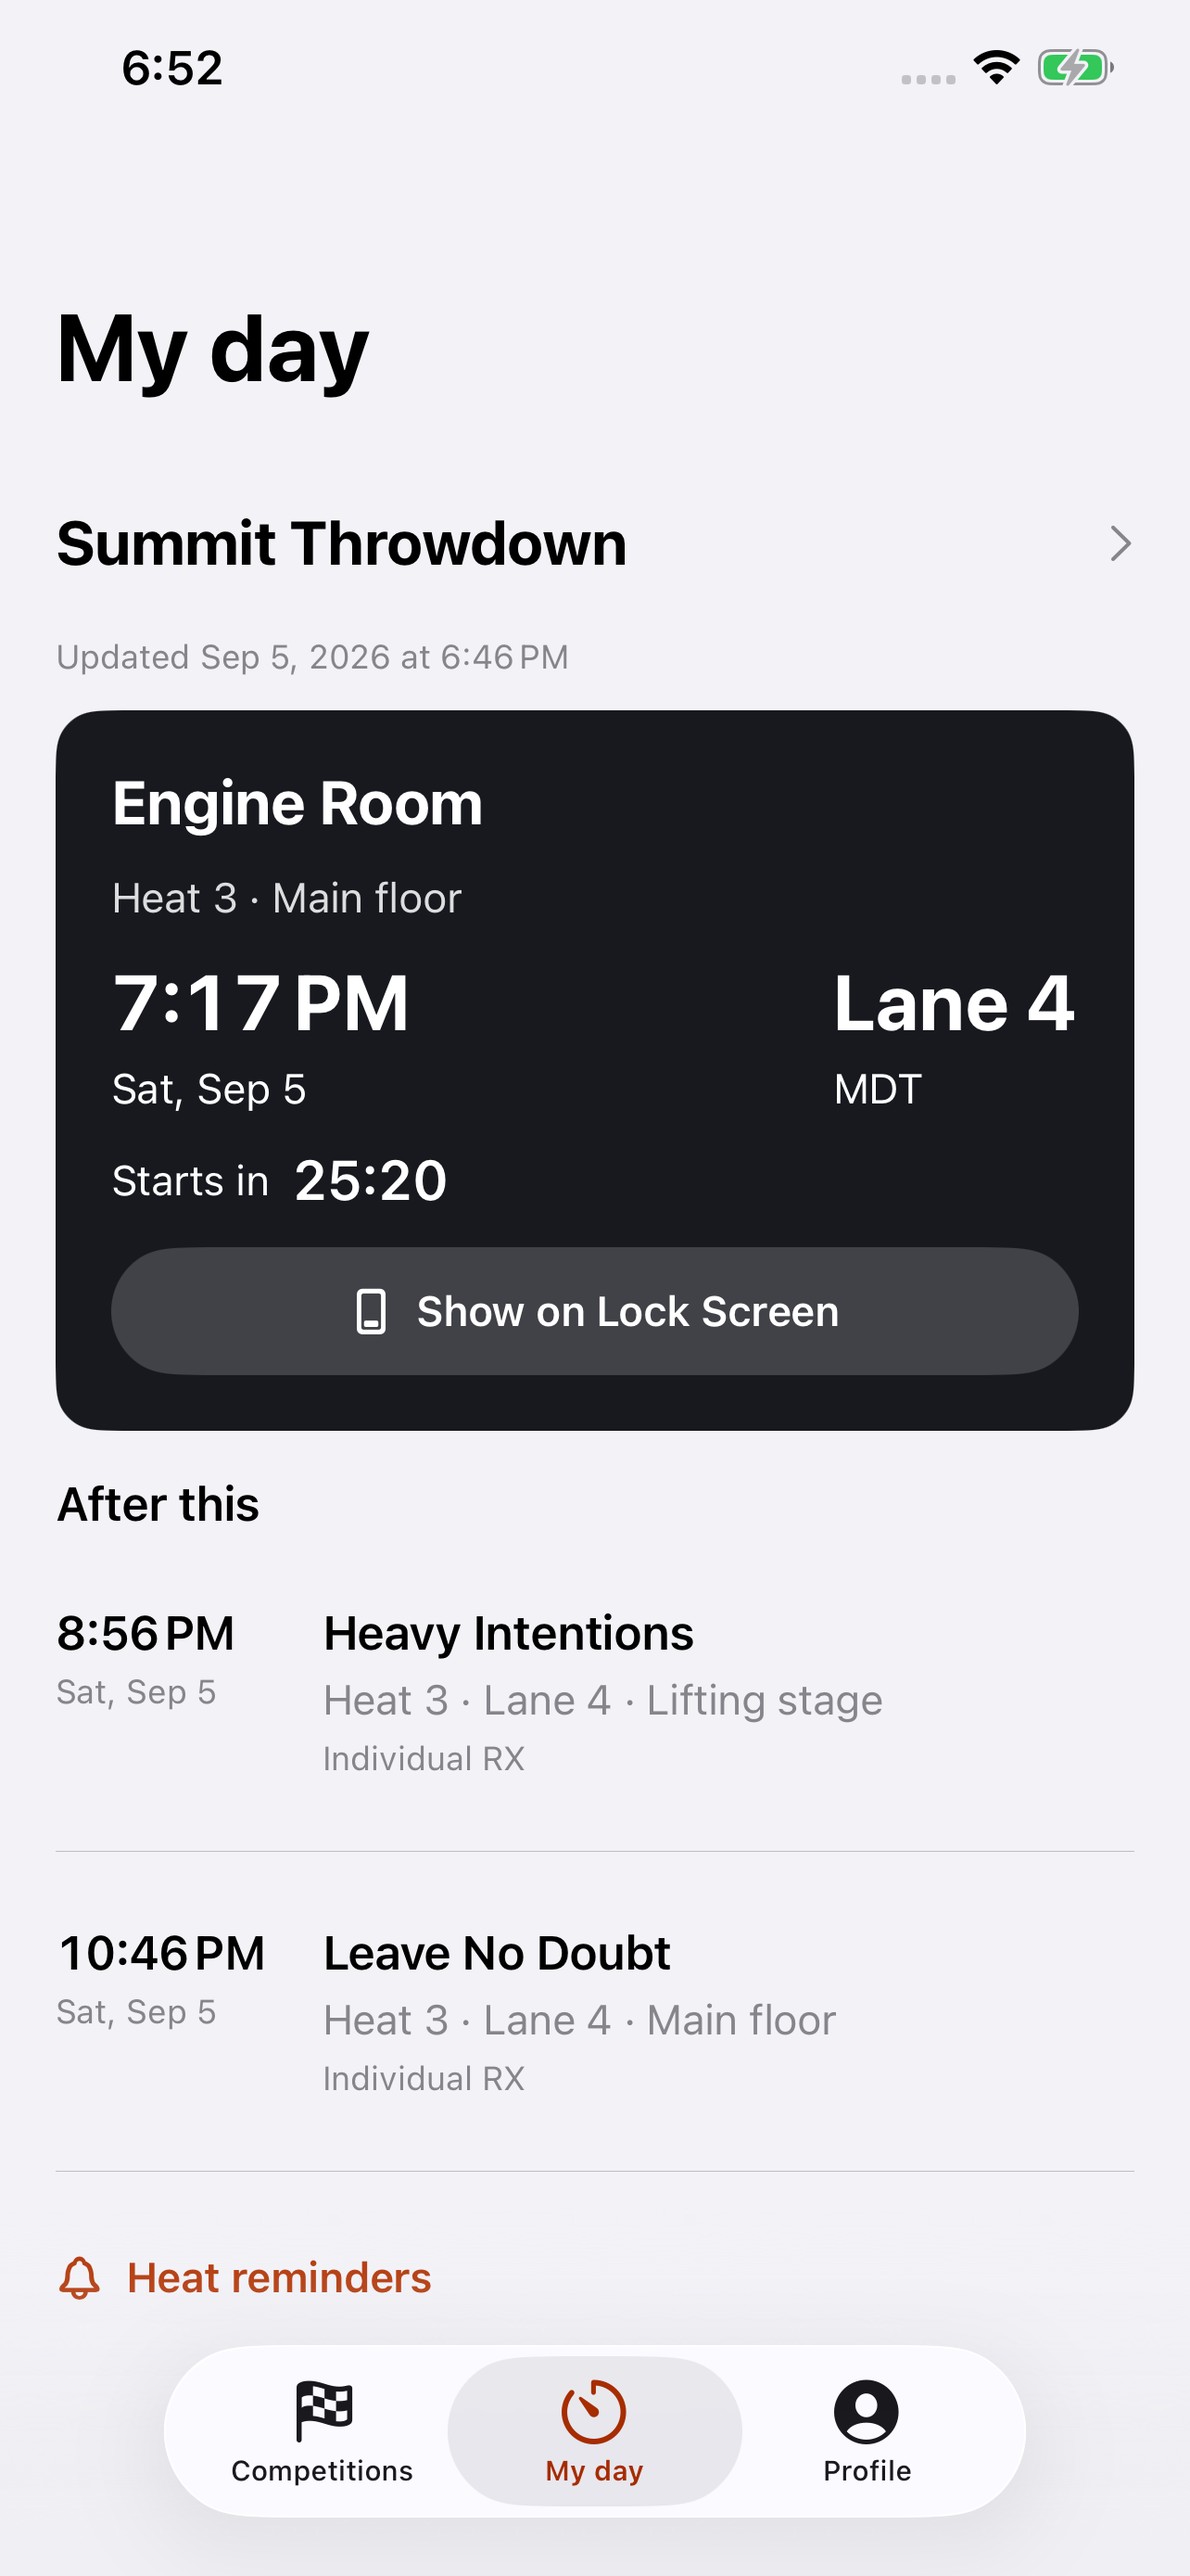
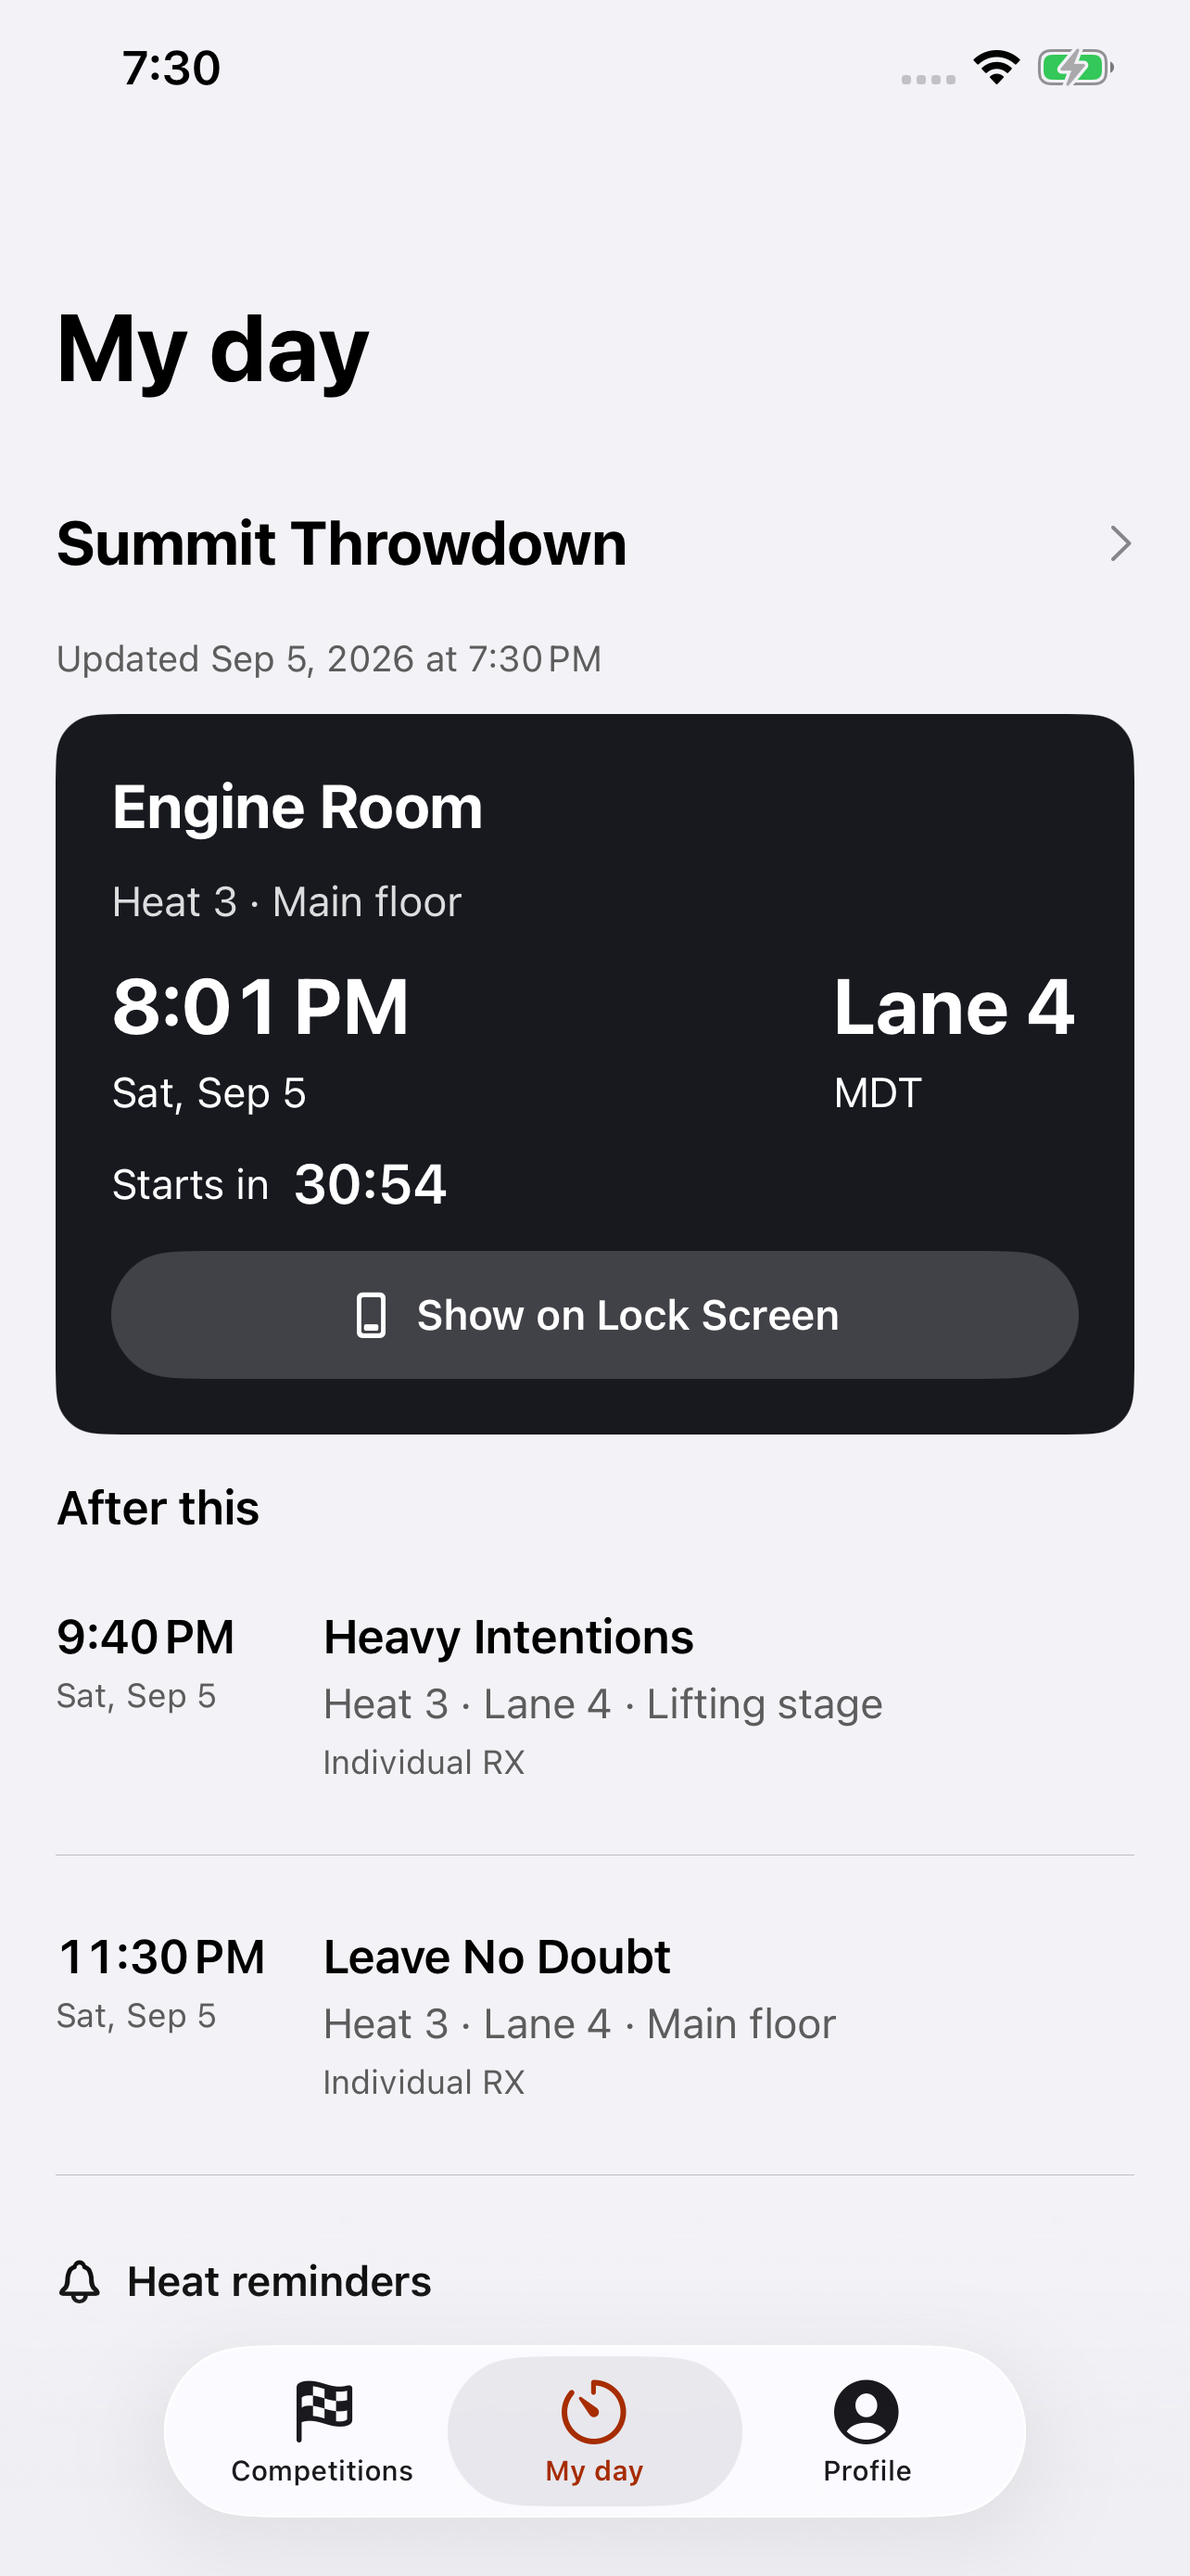
Refresh native App Store screenshots after accessibility polish

diff --git a/apps/wodsmith-gameday/AppStore/release-status.md b/apps/wodsmith-gameday/AppStore/release-status.md
@@ -20,7 +20,7 @@ The native app is in implementation and validation. It has not been uploaded or 
 
 ## Required before submission
 
-- Refresh the three affected App Store screenshots (My day, discovery, reminders) for the latest contrast/text styling before final submission. The saved five-image draft predates these small visual changes.
+- Replace the three affected App Store screenshots (My day, discovery, reminders) with the refreshed local captures. They are visually checked and ready in `AppStore/screenshots/6.5-inch/`; the saved five-image draft predates these small visual changes. Complete the missing contact fields so Apple can save the updated draft.
 - Deploy the new WODsmith API and public support/privacy pages; the production API currently returns 404.
 - Verify real athlete login, teammate assignments, profile editing, refresh/offline recovery, and notifications against deployed data.
 - Complete the App Store draft's privacy publication and review details. The user authorized reusing Dial Your Espresso's review contact. Its saved name is Zachary Jones, but phone and email are blank in both the read-only listing and edit dialog. The name is entered in Game Day's current form; Apple refuses to save it until phone and email are supplied. A request for those two missing values is pending. No Espresso review information was modified.
@@ -32,6 +32,6 @@ Full VoiceOver traversal, RTL, and unusually long organizer content have not bee
 
 ## Source release gate
 
-Implementation commit `00a4c9b89` is on local branch `zac/native-game-day`, rebased onto main at `129445f74`. The GitHub push was rejected by automatic approval review because explicit authorization to send source/history to `github.com/wodsmith/thewodapp` is required. A user approval request is pending; do not retry the push or use an alternate transport until authorized.
+The implementation starts at commit `00a4c9b89`; privacy, concurrency, and accessibility follow-through is in `35e5d34b4`. These and the refreshed screenshot assets are on local branch `zac/native-game-day`, based on main at `129445f74`. The GitHub push was rejected by automatic approval review because explicit authorization to send source/history to `github.com/wodsmith/thewodapp` is required. A user approval request is pending; do not retry the push or use an alternate transport until authorized.
 
 The initial pre-push lint failure was caused by missing worktree dependencies. Restoring links to the saved project’s installed packages resolved it. The full repository lint and type-check commands subsequently passed. No hook was bypassed.

diff --git a/apps/wodsmith-gameday/AppStore/screenshots/README.md b/apps/wodsmith-gameday/AppStore/screenshots/README.md
@@ -1,6 +1,6 @@
 # App Store screenshots
 
-These five native simulator captures are saved in the English (U.S.) iPhone 6.5-inch screenshot set for WODsmith Game Day 1.0, Apple ID `6809070191`. Their count and order were verified after reloading App Store Connect.
+These five native simulator captures are saved in the English (U.S.) iPhone 6.5-inch screenshot set for WODsmith Game Day 1.0, Apple ID `6809070191`. Their original count and order were verified after reloading App Store Connect. The local My day, competitions, and reminders images have since been refreshed for the final contrast/text changes and need replacement in the draft after its missing review-contact fields are completed.
 
 ## Capture details
 
@@ -12,4 +12,4 @@ The images are unretouched 1284 × 2778 PNGs from an iPhone 14 Plus running iOS 
 4. `6.5-inch/04-leaderboard.png`: division standings and the athlete's own entry.
 5. `6.5-inch/05-reminders.png`: enabled reminders with a configurable lead time.
 
-The dedicated simulator is `9A2C5891-A1A4-4643-A7C2-F80A76F91713`. Its build products are in `/tmp/GameDayScreenshots`. Notification permission was granted only on this simulator for the enabled-reminders capture. App Store screenshot upload does not mean that the binary has been uploaded or submitted for review.
+The dedicated simulator is `9A2C5891-A1A4-4643-A7C2-F80A76F91713`. The refreshed captures use build products in `/tmp/GameDayReminderTests` and are preserved in `/tmp/GameDayStoreRefresh.xcresult`. A temporary XCTest capture harness was removed after extraction; it is not part of the app or test suite. Notification permission was granted only on this simulator for the enabled-reminders capture. App Store screenshot upload does not mean that the binary has been uploaded or submitted for review.

diff --git a/lat.md/gameday.md b/lat.md/gameday.md
@@ -165,3 +165,7 @@ Five native iPhone 14 Plus screenshots are saved in Apple's 6.5-inch English lis
 The user approved reusing Dial Your Espresso's Apple review contact. Its phone and email fields are empty, so Game Day's contact form cannot save until those values are provided. Contact values belong in App Store Connect rather than source documentation.
 
 The implementation branch is `zac/native-game-day`. External source publication is paused for explicit GitHub push approval after automatic review rejected code egress; the saved App Store draft remains available while that approval is pending.
+
+### Native screenshot evidence
+
+The App Store screenshot set uses fictional Debug competition data captured from real native views. Three local replacements reflect the final contrast changes and are ready to save after completing Apple's required review-contact fields.
